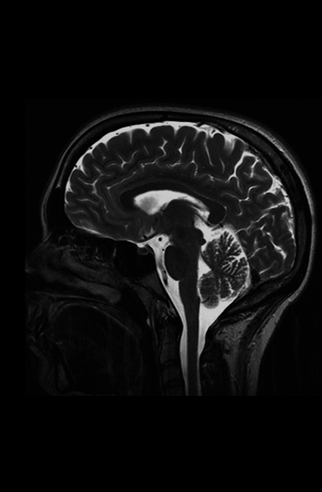
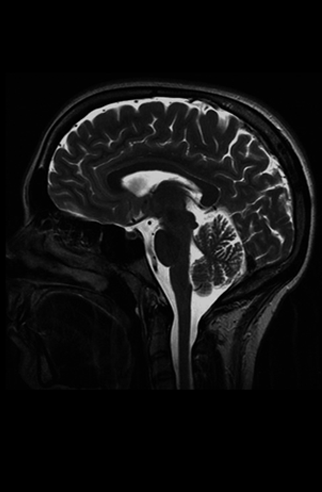
Adjusted view in mobile.

diff --git a/css/main.css b/css/main.css
@@ -1,141 +1,17 @@
-.body__home{
-  background-color: #222;
-	margin: 0;
-	overflow: hidden;
-}
-
-article,aside,details,figcaption,figure,footer,header,hgroup,main,nav,section,summary {
-	display:block;
-}
-audio,video {
-	display:inline-block;
-}
-audio:not([controls]) {
-	display:none;height:0;
-}
-[hidden] {
-	display:none;
-}
 html {
 	font-family:sans-serif;
 	-ms-text-size-adjust:100%;
 	-webkit-text-size-adjust:100%;
 }
+
 body {
 	margin:0;
 }
-a:focus {
-	outline:thin dotted;
-}
-a:active,a:hover {
-	outline:0;
-}
-h1 {
-	font-size:2em;
-	margin:0.67em 0;
-}
-abbr[title] {
-	border-bottom:1px dotted;
-}
-b,strong {
-	font-weight:bold;
-}
-dfn {
-	font-style:italic;
-}
-hr {
-	-moz-box-sizing:content-box;
-	box-sizing:content-box;
-	height:0;
-}
-mark {
-	background:#ff0;
-	color:#000;
-}
-code,kbd,pre,samp {
-	font-family:monospace,serif;
-	font-size:1em;
-}
-pre {
-	white-space:pre-wrap;
-}
-q {
-	quotes:"\201C" "\201D" "\2018" "\2019";
-}
-small {
-	font-size:80%;
-}
-sub,sup {
-	font-size:75%;
-	line-height:0;
-	position:relative;
-	vertical-align:baseline;
-}
-sup {
-	top:-0.5em;
-}
-sub {
-	bottom:-0.25em;
-}
-img {
-	border:0;
-}
-svg:not(:root) {
-	overflow:hidden;
-}
-figure {
-	margin:0;
-}
-fieldset {
-	border:1px solid #c0c0c0;
-	margin:0 2px;
-	padding:0.35em 0.625em 0.75em;
-}
-legend {
-	border:0;padding:0;
-}
-button,input,select,textarea {
-	font-family:inherit;
-	font-size:100%;
-	margin:0;
-}
-button,input{
-	line-height:normal;
-}
-button,select {
-	text-transform:none;
-}
-button,html input[type="button"],input[type="reset"],input[type="submit"] {
-	-webkit-appearance:button;
-	cursor:pointer;
-}
-button[disabled],html input[disabled] {
-	cursor:default;
-}
-input[type="checkbox"],input[type="radio"] {
-	box-sizing:border-box;
-	padding:0;
-}
-input[type="search"] {
-	-webkit-appearance:textfield;
-	-moz-box-sizing:content-box;
-	-webkit-box-sizing:content-box;
-	box-sizing:content-box;
-}
-input[type="search"]::-webkit-search-cancel-button,input[type="search"]::-webkit-search-decoration {
-	-webkit-appearance:none;
-}
-button::-moz-focus-inner,input::-moz-focus-inner {
-	border:0;
-	padding:0;
-}
-textarea {
-	overflow:auto;
-	vertical-align:top;
-}
-table {
-	border-collapse:collapse;
-	border-spacing:0;
+
+.body__home{
+  background-color: #222;
+	margin: 0;
+	overflow: hidden;
 }
 
 *,
@@ -172,12 +48,6 @@ a:focus {
 	outline: none;
 }
 
-/* .home__container{
-	position: absolute;
-	top: 0;
-	left:50%;
-} */
-
 .home__container {
 	overflow:hidden;
 	width: 100vw;
@@ -191,11 +61,22 @@ a:focus {
 	align-items: center;
 }
 
-.webgl__container{
-	padding: 0;
+#text__prefix {
+	margin:0;
+	margin-left: -140px;
 }
 
-h1 {
+ul {
+	margin: auto;
+}
+
+.webgl__container{
+	padding: 0 !important;
+	padding-right: 0 !important;
+	padding-left: 0 !important;
+}
+
+h1, h2, h3, h4, h5 {
 	display: inline-block;
 	vertical-align: top;
 	margin: 0;
@@ -203,7 +84,7 @@ h1 {
 
 .word {
 	position: absolute;
-	width: 800px;
+	width: auto;
 	opacity: 0;
 }
 
@@ -238,31 +119,85 @@ h1 {
   white-space: pre;
 }
 
-html {
-  font-size: 1rem;
-}
-
-@include media-breakpoint-up(sm) {
-  html {
-    font-size: 0.6rem;
-  }
-}
-
-@include media-breakpoint-up(md) {
-  html {
-    font-size: 0.8rem;
-  }
-}
-
-@include media-breakpoint-up(lg) {
-  html {
-    font-size: 1.6rem;
-  }
-}
-
 #swipezone{
 	width: 100%;
 	height: 100vh;
 	position: absolute;
 	top: 0;
-  }
+}
+
+html,
+body {
+	font-size: 14px !important;
+}
+h1 {
+	font-size: 1.602em;
+}
+h2 {
+	font-size: 1.424em;
+}
+h3 {
+	font-size: 1.266em;
+}
+h4 {
+	font-size: 1.125em;
+}
+h5 {
+	font-size: 0.889em;
+}
+h6 {
+	font-size: 0.79em;
+}
+.display-1 {
+	font-size: 3.906em;
+}
+.display-2 {
+	font-size: 3.125em;
+}
+.display-3 {
+	font-size: 2.5em;
+}
+.display-4 {
+	font-size: 2em;
+}
+
+@media (min-width: 48em) {
+	h1 {
+	  font-size: 2.441em;
+	}
+	h2 {
+		font-size: 1.953em;
+	}
+	h3 {
+		font-size: 1.563em;
+	}
+	h4 {
+		font-size: 1.25em;
+	}
+	.display-1 {
+		font-size: 6em;
+	}
+	.display-2 {
+		font-size: 5.5em;
+	}
+	.display-3 {
+		font-size: 4.5em;
+	}
+	.display-4 {
+		font-size: 3.5em;
+	}
+}
+
+@media (min-width: 62em) {
+	html,
+	body {
+		font-size: 16px !important;
+	}
+}
+
+@media (min-width: 75em) {
+	html,
+	body {
+		font-size: 18px !important;
+	}
+}

diff --git a/index.html b/index.html
@@ -190,16 +190,16 @@
 			<div class="row">
 				<div class="text text-light flex-row col-lg-6" id="text__container">
 					<ul class="list-inline">
-						<li class="list-inline-item">
-								<h1> Hi! I am</h1>
+						<li class="list-inline-item" id="text__prefix">
+								<h4> Hi! I am</h4>
 						</li>
 						<li class="list-inline-item">
-							<h1>
+							<h4>
 								<span class="word wisteria">Szabolcs Lőrincz.</span>
-								<span class="word belize">a student.</span>
+								<span class="word belize">a 3rd year BSc student.</span>
 								<span class="word pomegranate">an amateur astronomer.</span>
 								<span class="word green">a neuroscience enthusiast.</span>
-							</h1>
+							</h4>
 						</li>
 					</ul>
 				</div>
@@ -458,7 +458,7 @@
 
 					this.samples = [
 						'../imgs/00_1.png',
-						'../imgs/01_1.png',
+						'../imgs/01_2.png',
 						'../imgs/02_1.png',
 						'../imgs/03_1.png',
 						// '../imgs/03.png',
